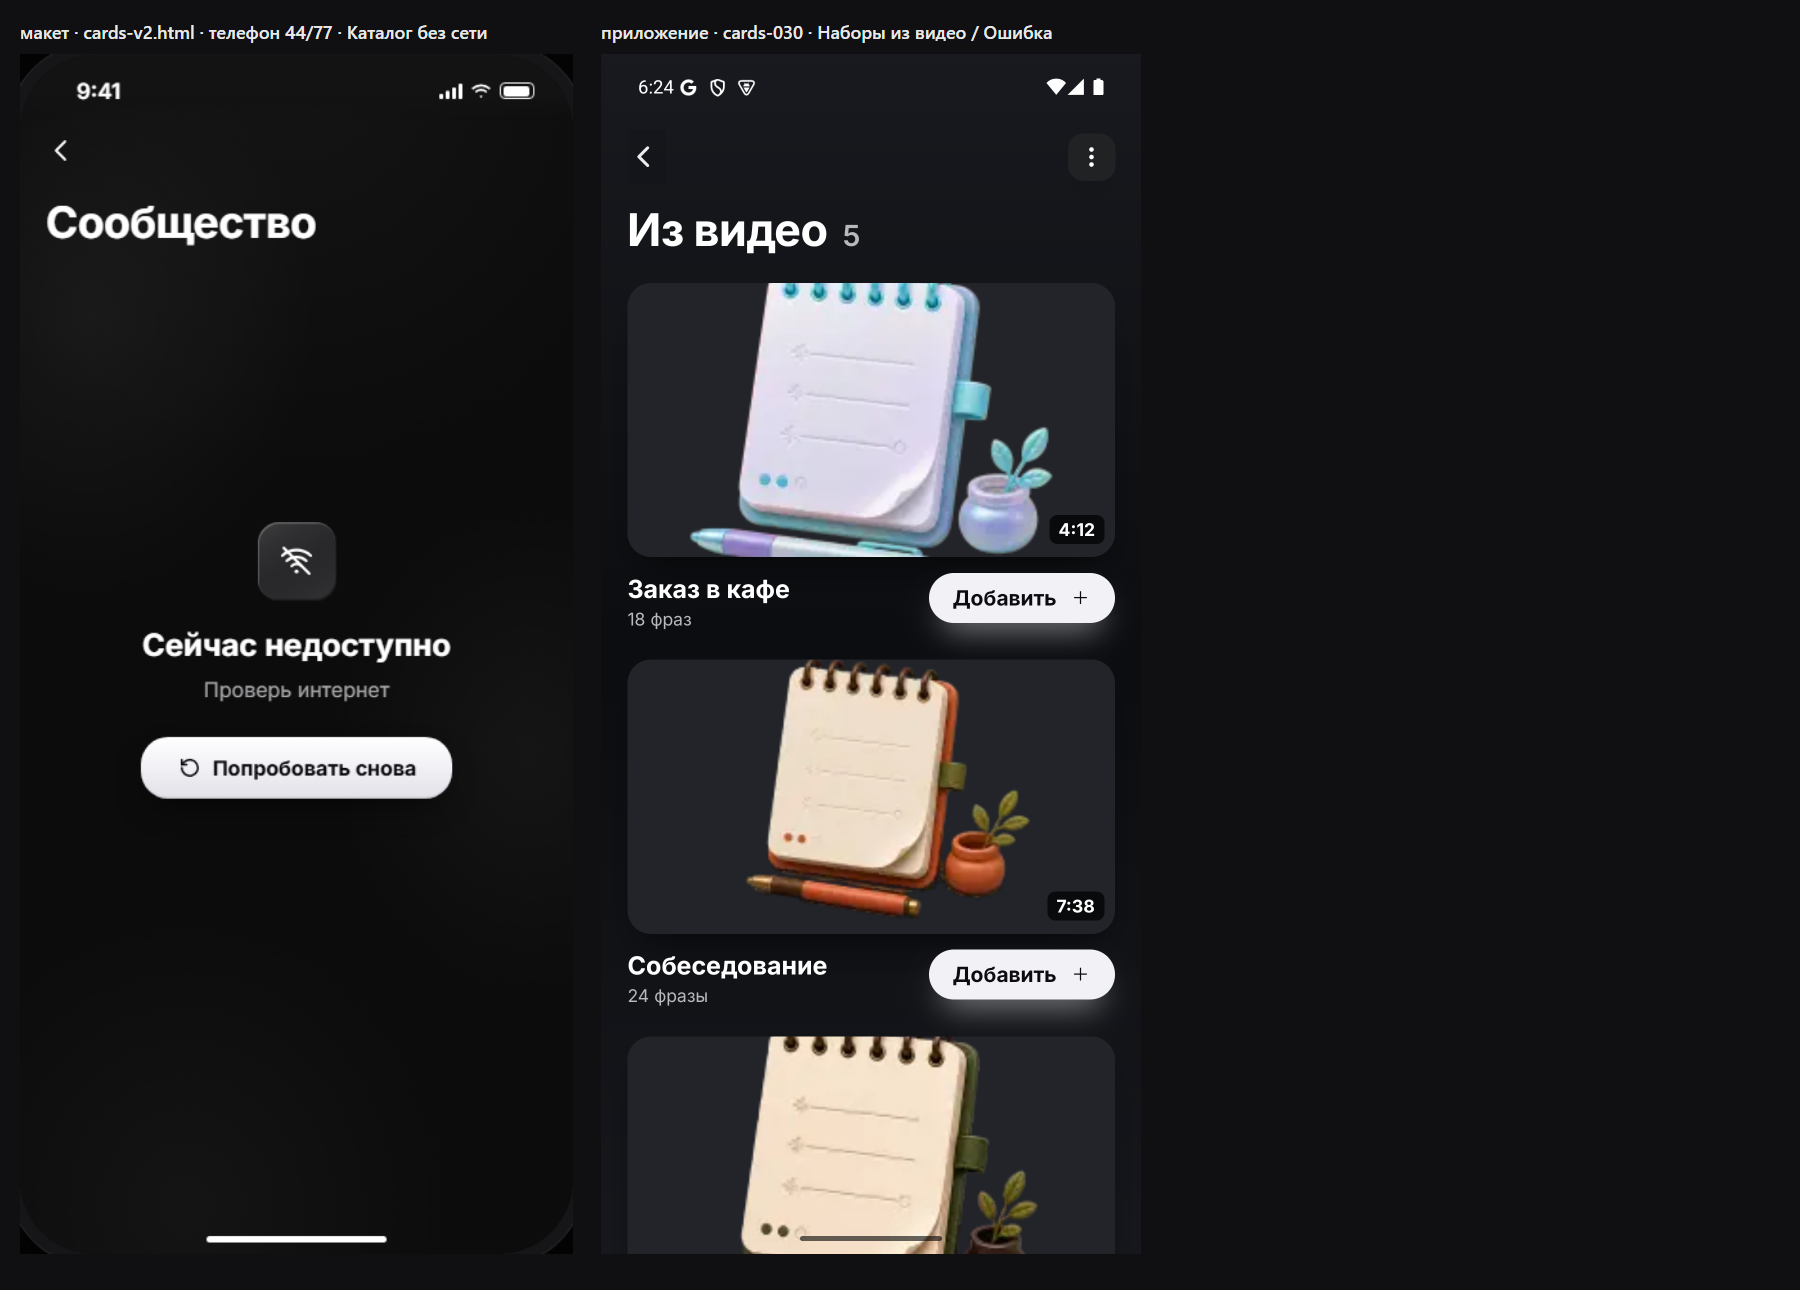
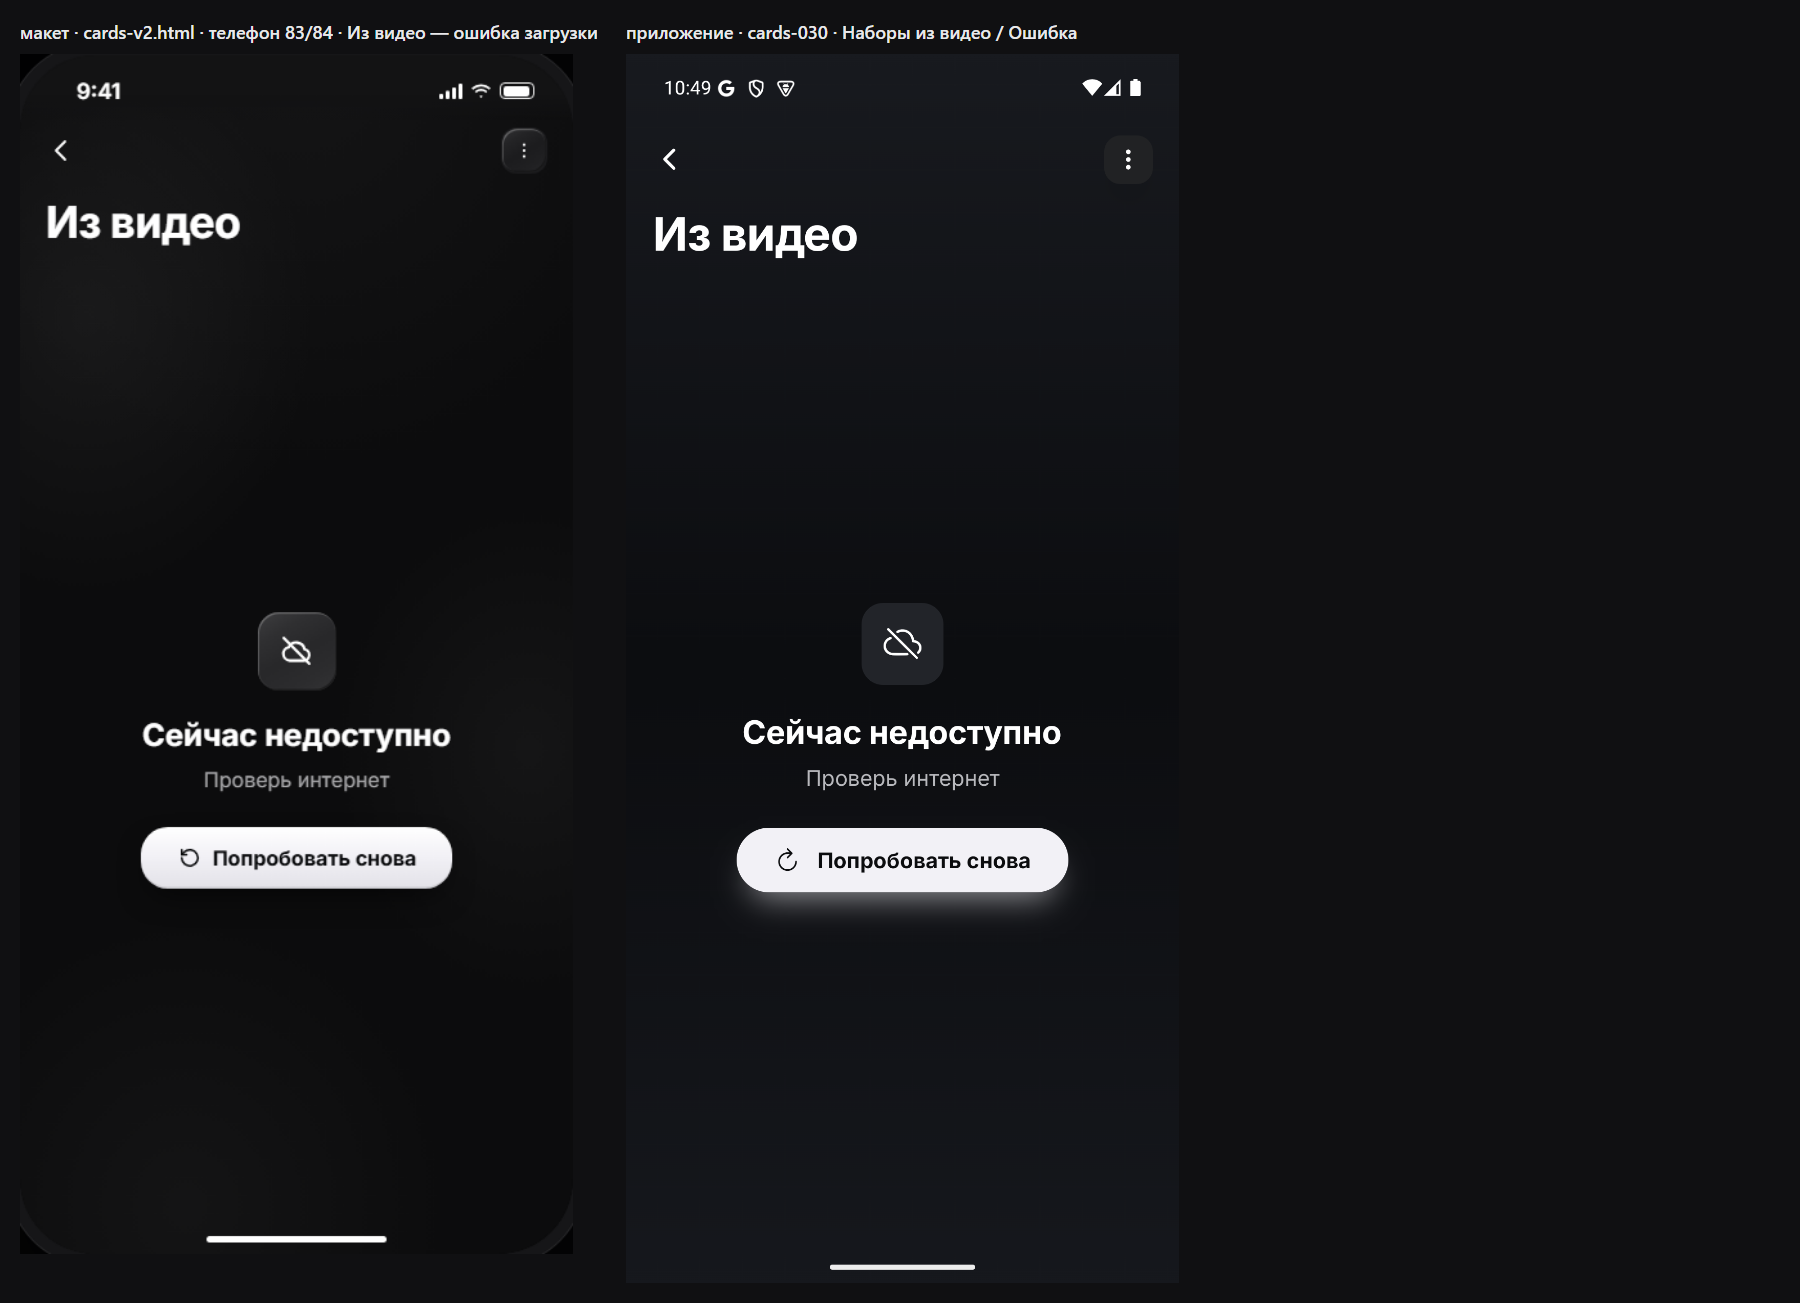
mockup: cards-v2 №82–84 — меню языка в настройке тренировки (п.83), «Из видео» ошибка и «Пока пусто»; пересклейка p83
Governance-ID: TG-73A0864C7E2B

diff --git a/docs/design/v2-app/cards-v2.html b/docs/design/v2-app/cards-v2.html
@@ -822,6 +822,23 @@
       <div class="flex" style="justify-content:space-between;align-items:center;margin-top:16px"><span class="rb l t">${icon('arrowR', 's20')}</span><span class="rb l t">${icon('vol', 's20')}</span></div>`, { time: '9:41' });
 
   // №81 cards-081 — «Из видео · поиск: ничего не нашли» (код flashcards_video_packs.tsx: notFoundTitle «Ничего не нашли», notFoundBody «Попробуй другое слово.», кнопка showAll «Показать все»); старый cards-states №76 скрыт
+  // №82 cards-027 (кадр приложения p83 3_menu_open, 12.10, решения владельца п.82–83): на настройке тренировки справа вверху чип языка «EN ⌄» рядом с пилюлей остатка; тап открывает меню языков (флаг, название, число наборов, галочка у выбранного) — язык ФИЛЬТРУЕТ наборы, язык приложения не меняется
+  const flagUK = `<svg viewBox="0 0 24 16" width="28" height="19" aria-hidden="true" style="display:block;border-radius:3px"><rect width="24" height="16" fill="#1d3f9a"/><path d="M0 0L24 16M24 0L0 16" stroke="#fff" stroke-width="3.2"/><path d="M0 0L24 16M24 0L0 16" stroke="#c8202f" stroke-width="1.1"/><path d="M12 0V16M0 8H24" stroke="#fff" stroke-width="5.2"/><path d="M12 0V16M0 8H24" stroke="#c8202f" stroke-width="3"/></svg>`;
+  const flagFR = `<svg viewBox="0 0 24 16" width="28" height="19" aria-hidden="true" style="display:block;border-radius:3px"><rect width="8" height="16" fill="#1d3f9a"/><rect x="8" width="8" height="16" fill="#fff"/><rect x="16" width="8" height="16" fill="#e1343c"/></svg>`;
+  const flagES = `<svg viewBox="0 0 24 16" width="28" height="19" aria-hidden="true" style="display:block;border-radius:3px"><rect width="24" height="16" fill="#c8202f"/><rect y="4" width="24" height="8" fill="#f1bf00"/></svg>`;
+  const langChip = `<span class="t" style="display:inline-flex;align-items:center;gap:8px;height:34px;padding:0 12px;border-radius:17px;background:var(--control);font-size:16px;font-weight:700">EN${icon('down', 's16')}</span>`;
+  const langMenu = `<div class="dim on"></div><div style="position:absolute;z-index:60;right:16px;top:100px;width:300px;padding:6px;border-radius:24px;background:#222228;box-shadow:0 16px 28px -14px rgba(0,0,0,.8)">${[[flagUK, 'English', 6, 1], [flagFR, 'Français', 2, 0], [flagES, 'Español', 3, 0]].map(([f, n, c, on]) => `<div class="t" style="display:flex;align-items:center;gap:14px;height:56px;padding:0 14px;border-radius:16px"><span style="flex:none">${f}</span><span style="flex:1;font-size:19px;font-weight:700">${n}</span><span style="font-size:16px;font-weight:700;color:var(--sec)">${c}</span><span style="width:22px;color:#fff">${on ? icon('check', 's20') : ''}</span></div>`).join('')}</div>`;
+  // №83 cards-030 (кадр приложения p83 10_video_fail_final, 12.10): «Из видео» — каталог не прочитался (fail=video_list): облако с чертой, «Сейчас недоступно», «Проверь интернет», «Попробовать снова»; в шапке «‹» и «⋮», заголовок без счётчика
+  const videoFail = () => phone(`${back(rbMenu())}${ttl('Из видео')}<div style="margin-top:70px">${empty('<svg class="i s28" viewBox="0 0 24 24" aria-hidden="true"><path d="M7.5 18.5h9.2a3.8 3.8 0 00.6-7.55A5.6 5.6 0 006.8 9.6a4.5 4.5 0 00.7 8.9z"/><path d="M3.5 3.5l17 17"/></svg>', 'Сейчас недоступно', 'Проверь интернет', `${X.retry}Попробовать снова`)}</div>`, { time: '9:41' });
+  // №84 cards-080 (кадр приложения p83 8_video_empty, 12.10; Дизайн cbf5a615a): «Из видео» — пока пусто: «‹» и «⋮», заголовок без счётчика, плитка с play, «Пока пусто», «Наборы из роликов появятся здесь, как только выйдут.»; без поля поиска и без кнопки
+  const videoEmpty = () => phone(`${back(rbMenu())}${ttl('Из видео')}<div style="margin-top:225px;text-align:center"><div class="tile t61" style="margin:0 auto">${icon('play', 's24')}</div><div style="font-size:22px;font-weight:700;margin-top:22px">Пока пусто</div><div style="font-size:16px;line-height:23px;color:var(--sec);margin:10px auto 0;max-width:300px">Наборы из роликов появятся здесь, как только выйдут.</div></div>`, { time: '9:41' });
+  const setupLangMenu = () => withOverlay(phone(`<div class="topbar"><span class="rb bare t">${icon('back', 's24')}</span><span class="flex" style="gap:8px">${langChip}${limPill('copy', '30/30')}</span></div>
+      <div class="flex" style="gap:14px;margin-top:14px"><div class="tile t55">${icon('bolt', 's26')}</div><div style="font-size:30px;font-weight:700;letter-spacing:-.4px">Блиц</div></div>
+      <div class="sec" style="margin-top:28px"><div class="ti" style="font-size:17px">Что повторяем</div></div>
+      <div class="pick">${pk('Все сохранённые', '64 карточки', 1)}${pk('Путешествия', '40 карточек')}${pk('B2 глаголы', '49 карточек')}${pk('Работа', '22 карточки')}${pk('Фразовые глаголы', '31 карточка')}${pk('Мой опубликованный', '10 карточек')}</div>
+      <div class="sec"><div class="ti" style="font-size:17px">Время</div></div>
+      <div class="seg3" data-seg><span>30 с</span><span class="on">60 с</span><span>90 с</span></div>`, { time: '9:41',
+    fixed: `<div class="bot"><div class="cta t">${icon('play', 's18')}Начать</div></div>` }), langMenu);
   const videoSearchNone = () => phone(`${back(rbMenu())}${ttl('Из видео', 12)}<div style="margin-top:16px">${srch('zzzqq', { caret: 1 })}</div><div class="empty" style="min-height:380px"><div class="tile t61">${icon('search', 's28')}</div><div class="et">Ничего не нашли</div><div class="es">Попробуй другое слово.</div><span class="cta sm t">Показать все</span></div>`, { time: '9:41' });
   const offlineCatalog = () => phone(`${back()}${ttl('Сообщество')}${empty('wifiOff', 'Сейчас недоступно', 'Проверь интернет', `${X.retry}Попробовать снова`)}`, { time: '9:41' });
 
@@ -848,7 +865,7 @@
     ['add', 'Дорисовано по приложению', 'Решения 12.10: лимиты Free по местам (сохранённые 50, свои карточки 50, свои наборы 3, тренировки 30 в месяц), меню «⋯» с «Показать стопкой», «Подсказка» и «Показать ответ» в «Вспомни и напиши», итог с вердиктами «Хороший результат» / «Есть куда расти».', [
       col('Лимит — сохранённые 50/50', savedLimit()), col('Лимит — свои карточки 50/50', newCard({ limit: '50/50' })), col('Лимит — свои наборы 3/3', newSet({ limit: '3/3' })),
       col('Сохранённые — меню «⋯»', savedMenuOpen()), col('Вспомни и напиши — подсказка', writeHint()), col('Вспомни и напиши — ответ показан', writeReveal()),
-      col('Итог — «Хороший результат» (12 из 20)', resultGood()), col('Итог — «Есть куда расти» (6 из 20)', resultLow()), col('Набор из видео — добавлен', videoSet(true)), col('Сохранённые — загрузка', savedLoading()), col('Подготовка тренировки — загрузка наборов', setupLoading()), col('Новая карточка — не удалось сохранить', cardSaveErr()), col('Карточка не найдена', cardNotFound()), col('Новый набор — шторка «Новая карточка»', setNewCardSheet()), col('Каталог — загрузка', catalogLoading()), col('Сохранённые — недоступно', savedUnavailable()), col('Каталог — нет сети (по коду)', catalogOffline()), col('Каталог — поиск, действия над набором', catalogSearchMenu()), col('Каталог — пока нет публикаций', catalogEmpty()), col('Мои наборы — удалить набор', mySetsDelete()), col('Мои наборы — набор удалён', mySetsDeleted()), col('Мои наборы — поиск: ничего не найдено', mySetsSearchNone()), col('Сохранённые — стопка', savedStack(false)), col('Сохранённые — стопка, оборот', savedStack(true)), col('Сохранённые — режим выделения', savedSelect()), col('Сохранённые — удалить 3 карточки', savedBulkDelete()), col('Сохранённые — долгое нажатие → «Удалить»', savedLongPress()), col('Сохранённые — выделено 3, «выбери ещё 7»', savedSelect3()), col('Сохранённые — поиск: ничего не найдено', savedSearchNone()), col('Новый набор — пусто', newSetEmpty()), col('Новый набор — «Очистить черновик?»', newSetClearDraft()), col('Сохранённые — разовая подсказка', savedHintOnce()), col('Подготовка тренировки — сеть недоступна', setupNetError()), col('Создание набора — недоступен для правки', editUnavailable()), col('Из видео — ролик не открылся', videoNotOpen()), col('Устно — ожидание (по коду)', oralWait()), col('Из видео — поиск: ничего не нашли', videoSearchNone())]],
+      col('Итог — «Хороший результат» (12 из 20)', resultGood()), col('Итог — «Есть куда расти» (6 из 20)', resultLow()), col('Набор из видео — добавлен', videoSet(true)), col('Сохранённые — загрузка', savedLoading()), col('Подготовка тренировки — загрузка наборов', setupLoading()), col('Новая карточка — не удалось сохранить', cardSaveErr()), col('Карточка не найдена', cardNotFound()), col('Новый набор — шторка «Новая карточка»', setNewCardSheet()), col('Каталог — загрузка', catalogLoading()), col('Сохранённые — недоступно', savedUnavailable()), col('Каталог — нет сети (по коду)', catalogOffline()), col('Каталог — поиск, действия над набором', catalogSearchMenu()), col('Каталог — пока нет публикаций', catalogEmpty()), col('Мои наборы — удалить набор', mySetsDelete()), col('Мои наборы — набор удалён', mySetsDeleted()), col('Мои наборы — поиск: ничего не найдено', mySetsSearchNone()), col('Сохранённые — стопка', savedStack(false)), col('Сохранённые — стопка, оборот', savedStack(true)), col('Сохранённые — режим выделения', savedSelect()), col('Сохранённые — удалить 3 карточки', savedBulkDelete()), col('Сохранённые — долгое нажатие → «Удалить»', savedLongPress()), col('Сохранённые — выделено 3, «выбери ещё 7»', savedSelect3()), col('Сохранённые — поиск: ничего не найдено', savedSearchNone()), col('Новый набор — пусто', newSetEmpty()), col('Новый набор — «Очистить черновик?»', newSetClearDraft()), col('Сохранённые — разовая подсказка', savedHintOnce()), col('Подготовка тренировки — сеть недоступна', setupNetError()), col('Создание набора — недоступен для правки', editUnavailable()), col('Из видео — ролик не открылся', videoNotOpen()), col('Устно — ожидание (по коду)', oralWait()), col('Из видео — поиск: ничего не нашли', videoSearchNone()), col('Настройка тренировки — меню языка (фильтр наборов)', setupLangMenu()), col('Из видео — ошибка загрузки', videoFail()), col('Из видео — пока пусто', videoEmpty())]],
   ];
   document.getElementById('nav').innerHTML = BLOCKS.map(([id, t]) => `<a href="#${id}">${t}</a>`).join('');
   document.getElementById('root').innerHTML = BLOCKS.map(([id, t, l, c]) => block(id, t, l, c)).join('');
